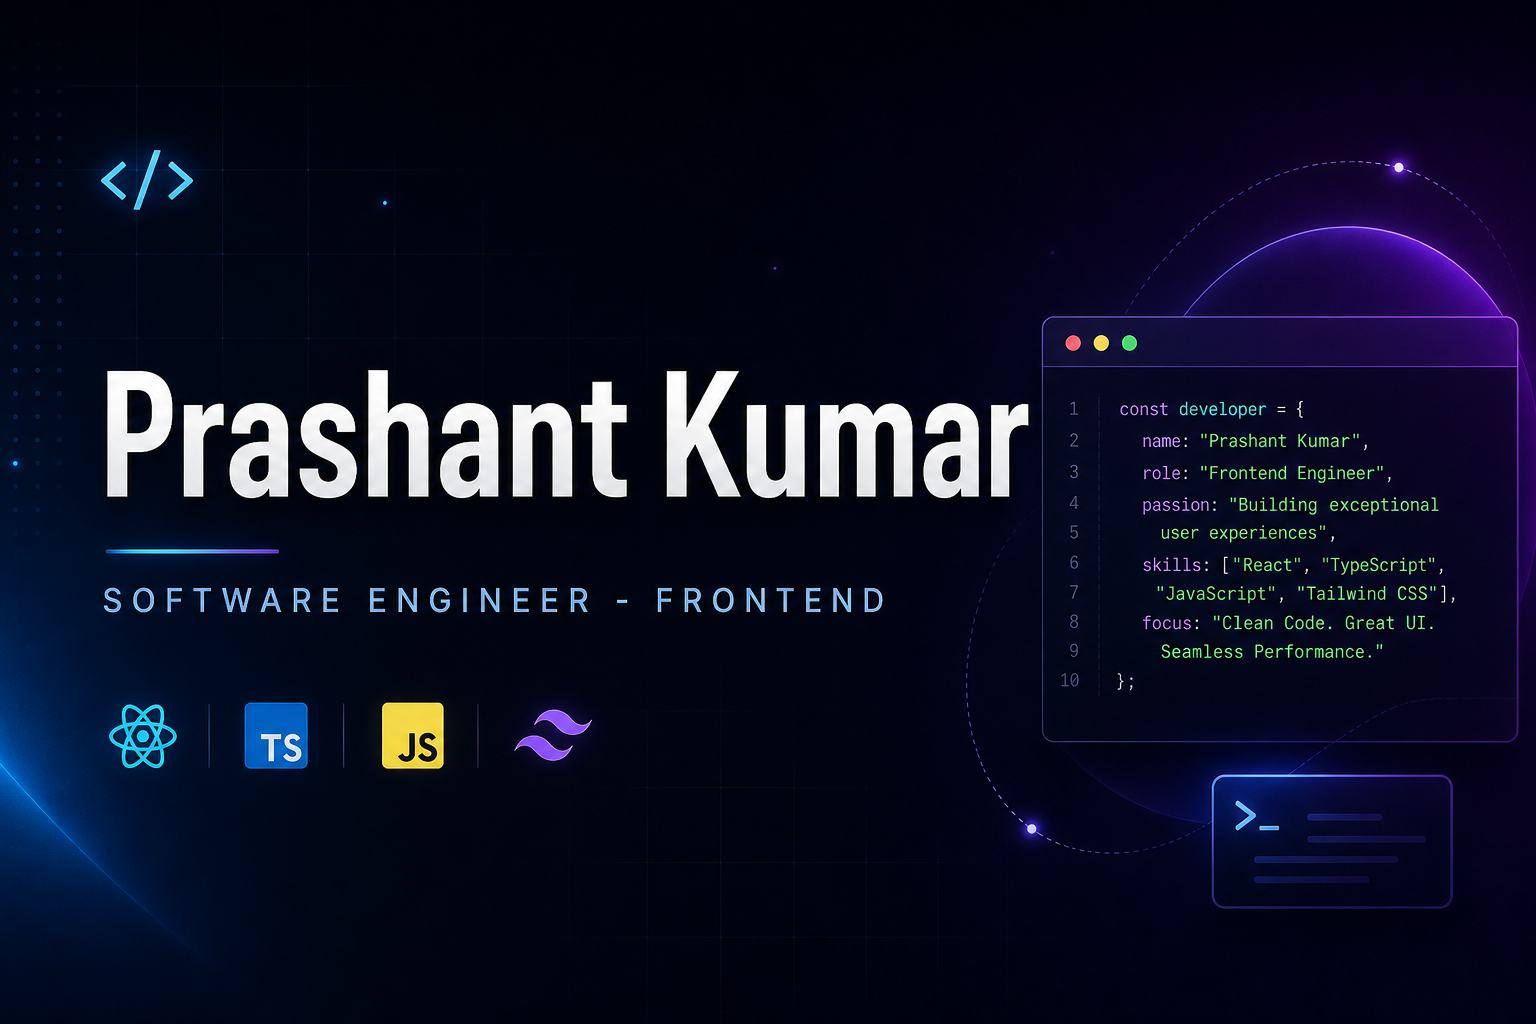
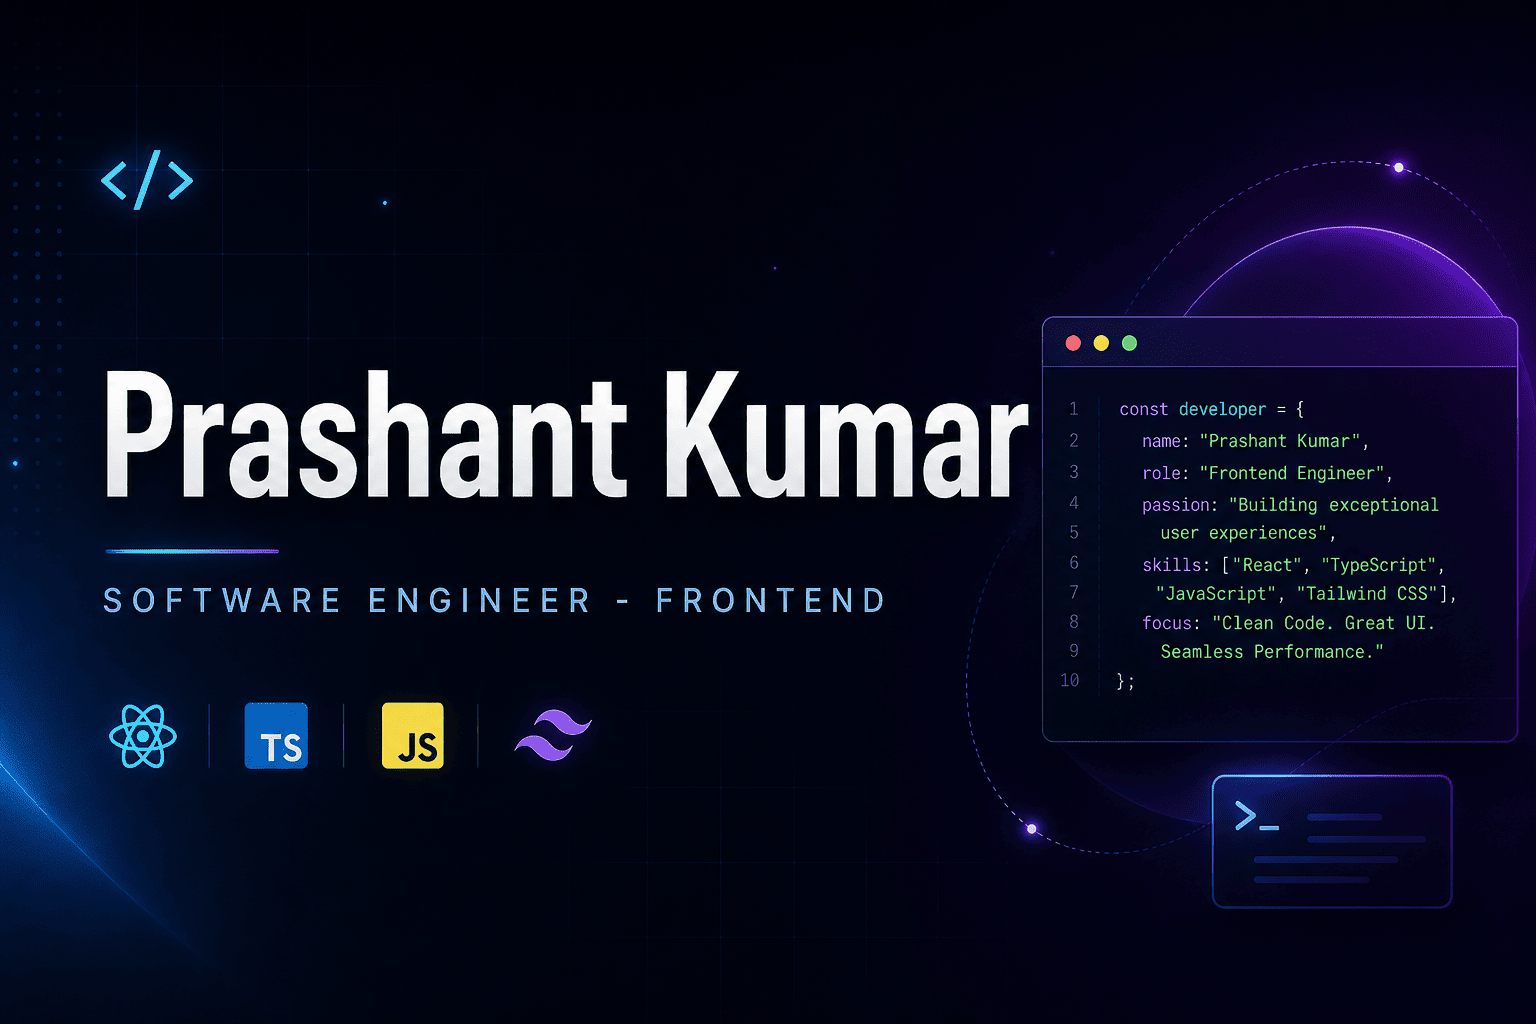
updated meta tags and card

diff --git a/index.html b/index.html
@@ -9,25 +9,25 @@
     <meta name="viewport" content="width=device-width, initial-scale=1.0" />
 
     <!-- Primary -->
-    <meta name="description" content="Building scalable SaaS products with clean, performant UI." />
+    <meta name="description" content="Frontend Engineer with 4+ years building scalable SaaS CRM platforms. Specializing in React, Redux Toolkit, TypeScript, and Tailwind CSS." />
 
     <!-- Open Graph -->
-    <meta property="og:type"        content="website" />
-    <meta property="og:url"         content="https://prashantkumar-dev.vercel.app/" />
-    <meta property="og:title"       content="Prashant Kumar | Frontend Engineer" />
-    <meta property="og:description" content="Building scalable SaaS products with clean, performant UI." />
-    <meta property="og:image"       content="https://prashantkumar-dev.vercel.app/ogImage.png" />
-    <meta property="og:image:width"  content="1536" />
-    <meta property="og:image:height" content="1024" />
+    <meta property="og:type"         content="website" />
+    <meta property="og:url"          content="https://prashantkumar-dev.vercel.app/" />
+    <meta property="og:title"        content="Prashant Kumar | Software Engineer - React Developer" />
+    <meta property="og:description"  content="Frontend Engineer with 4+ years building scalable SaaS CRM platforms. Specializing in React, Redux Toolkit, TypeScript, and Tailwind CSS." />
+    <meta property="og:image"        content="https://prashantkumar-dev.vercel.app/ogImage.png" />
+    <meta property="og:image:width"  content="1200" />
+    <meta property="og:image:height" content="630" />
 
     <!-- Twitter Card -->
     <meta name="twitter:card"        content="summary_large_image" />
     <meta name="twitter:url"         content="https://prashantkumar-dev.vercel.app/" />
-    <meta name="twitter:title"       content="Prashant Kumar | Frontend Engineer" />
-    <meta name="twitter:description" content="Building scalable SaaS products with clean, performant UI." />
+    <meta name="twitter:title"       content="Prashant Kumar | Software Engineer - React Developer" />
+    <meta name="twitter:description" content="Frontend Engineer with 4+ years building scalable SaaS CRM platforms. Specializing in React, Redux Toolkit, TypeScript, and Tailwind CSS." />
     <meta name="twitter:image"       content="https://prashantkumar-dev.vercel.app/ogImage.png" />
 
-    <title>Prashant Kumar | Portfolio</title>
+    <title>Prashant Kumar | Software Engineer - React Developer</title>
   </head>
   <body>
     <div id="root"></div>
